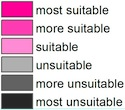
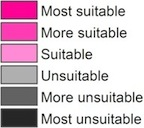
Added meta information in html header. Still need abstract and description.
Added tags to open IE in standard IE 8 mode rather than quirks.

Corrected footer's page contact information.

Added new legend jpgs from D. Galbraith after resizing to more appropriate sizes and changed the legend headers.

The outside study area layer toggle has been removed and the layer now shows up in the legend at initialization.

Added headers to the two lists of layer selection menus/buttons.

Added a vertical sizer between the sidebar and the tab panel. Removed the Vulnerability Assessment header and the map title.

git-svn-id: https://cida-svn.er.usgs.gov/repos/dev/usgs/glri-phragmites-map/trunk@23729 622dc1fb-2224-0410-ab72-dc85a3975e1a

diff --git a/src/main/webapp/js/ui.js b/src/main/webapp/js/ui.js
@@ -16,7 +16,7 @@ Ext.onReady(function() {
 		return dataArray;
 	};
 
-	var networkDataArray = createLayersDropDown('Map Off', GLRI.ui.map.networkLayers);
+	var networkDataArray = createLayersDropDown('No reduction', GLRI.ui.map.networkLayers);
 	
 	var createLayerCheckBoxes = function (layers){
 		// Return a list of checkbox objects that represent the layers
@@ -27,6 +27,7 @@ Ext.onReady(function() {
 				boxLabel: layers[i].name,
 				xtype: 'checkbox',
 				checked: layers[i].initialOn,
+				boxLabelAlign: 'before',
 				listeners: {
 					change: function(checkbox, newValue, oldValue) {
 						GLRI.ui.toggleLayerMap(checkbox.boxLabel, newValue);
@@ -50,7 +51,7 @@ Ext.onReady(function() {
 	
 	var otherCheckBoxes = createLayerCheckBoxes(GLRI.ui.map.habitatLayers.slice(0, 1));
 	var habitatCheckBoxes = createLayerCheckBoxes(GLRI.ui.map.habitatLayers.slice(1));
-	var habitatLegendDiv = createLegendDiv(GLRI.ui.map.habitatLayers);
+	var habitatAndStaticLegendDivs = createLegendDiv(GLRI.ui.map.habitatLayers.concat(GLRI.ui.map.staticLayers));
 	
 	Ext.create('Ext.container.Viewport', {
 		layout: 'border',
@@ -115,7 +116,6 @@ Ext.onReady(function() {
 					xtype: 'form',
 					id: 'phragmites-map-form',
 					bodyStyle: 'padding: 10px',
-					title: 'Vulnerability Assessment',
 					layout: 'column',
 					region: 'north',
 					split: true,
@@ -124,20 +124,21 @@ Ext.onReady(function() {
 					id: 'map-data-layers-selection',
 					items: [{
 						xtype: 'fieldset',
+						title: '<span style="font-size: 1.2em;"><b>Distance to <i>Phragmites</i><b></span>',
 						columnWidth: 0.50,
 						style: 'border-width: 0px',
 						items: [{
 							anchor: '80% 50%',
-							fieldLabel: 'Reduced Lake Level Corridors',
-							labelStyle: 'text-wrap: none;',
-							labelWidth: 170,
+							fieldLabel: 'Within reduced lake-level corridors',
+							labelWidth: 200,
+							margin: '0, 0, 0, 15',
 							id: 'phragmitesNetwork',
 							name: 'phragmitesNetwork', // Test to see if this fixes IE 7 display issues
 							xtype: 'combo',
 							triggerAction: 'all',
 							lazyRender:true,
 							forceSelection: true,
-							value: 'Map Off',
+							value: 'No reduction',
 							editable: false,
 							mode: 'local',
 							store: new Ext.data.ArrayStore({
@@ -156,17 +157,19 @@ Ext.onReady(function() {
 							displayField: 'network'
 						},
 						{
-							style: 'padding-top: 10px',
 							id: 'otherSuitability',
 							xtype: 'fieldcontainer',
+							margin: '0, 0, 0, 15',
 							items: otherCheckBoxes
 						}]
 					},{
 						xtype: 'fieldset',
 						columnWidth: 0.30,
+						title: '<span style="font-size: 1.2em;"><b><i>Phragmites</i> and Suitable Habitat</b></span>',
 						style: 'border-width: 0px',
 						items: [{
 							id: 'habitatSuitability',
+							margin: '0, 0, 0, 15',
 							xtype: 'fieldcontainer',
 							items: habitatCheckBoxes
 						}]
@@ -201,7 +204,6 @@ Ext.onReady(function() {
 				},{
 					contentEl: 'map-area',
 					id: 'ext-map-area',
-					title: 'Click and drag the map around.',
 					region: 'center',
 					layout: 'fit',
 					border: 0,
@@ -223,7 +225,8 @@ Ext.onReady(function() {
 			border: 0,
 			width: 300,
 			layout: 'border',
-			margin: 3,
+			margin: '3, 0, 0, 0',
+			split: true,
 			items: [
 			        {
 			        	xtype: 'panel',
@@ -234,7 +237,7 @@ Ext.onReady(function() {
 						autoScroll: true,
 						bodyStyle: "padding: 5px;",
 						region: 'north',
-						html: '<div class="legend-div" id="network-layer-div"></div>' + habitatLegendDiv
+						html: '<div class="legend-div" id="network-layer-div"></div>' + habitatAndStaticLegendDivs
 					},{
 			        	id: 'help-context-panel', 
 			        	title: GLRI.ui.helpContext.map.title,
@@ -259,5 +262,10 @@ Ext.onReady(function() {
 			setHelpContext(this);
 		},
 		config);
+	}
+	
+	// Add staticLayers legends to legend div.
+	for (var i = 0; i < GLRI.ui.map.staticLayers.length; i++) {
+		GLRI.ui.toggleLegend(GLRI.ui.map.staticLayers[i].name, GLRI.ui.map.staticLayers, true);
 	}
 });

diff --git a/src/main/webapp/js/config.js b/src/main/webapp/js/config.js
@@ -61,13 +61,13 @@ GLRI.ui.map.baseLayers = [
 */
 GLRI.ui.map.habitatLayers = [
 	 {
-  		name: "Streams, wetlands and waterbodies",
+  		name: "Within streams, wetlands, and waterbodies",
   		url: GLRI.ui.map.baseUrl,
    	 	type: OpenLayers.Layer.WMS,
   	 	layers: '0',
   	 	legend: { 
   	 		name: 'Streams, wetlands, and waterbodies',
-  	 		imgHtml: GLRI.ui.getLegendHTML(GLRI.ui.map.baseUrl, '0')
+  	 		imgHtml: '<img src=images/legends/corridor_networks.jpg />'
   	 	},
   	 	legendDivId: 'habitat-layer-0',
   	 	drawingOrder: 2,
@@ -89,19 +89,21 @@ GLRI.ui.map.habitatLayers = [
   	 	opacity: 1.0
       },
   	 {
-  		name: "<i>Phragmites</i> habitat",
+  		name: "<i>Phragmites</i> habitat suitability",
   		url: GLRI.ui.map.baseUrl,
   	 	type: OpenLayers.Layer.WMS,
   	 	layers: '1',
   	 	legend: {
-  	 		name: '<i>Phragmites</i> habitat',
+  	 		name: '<i>Phragmites</i> habitat suitability',
   	 		imgHtml: '<img src=images/legends/phragmites_habitat.jpg />'
   	 	},
   	 	legendDivId: 'habitat-layer-1',
   	 	drawingOrder: 1,
   	 	initialOn: false,
   	 	opacity: 1.0
-  	 },
+  	 }
+   ];
+GLRI.ui.map.staticLayers = [
   	 {
   		 name: "Outside study area",
   		 url: GLRI.ui.map.baseUrl,
@@ -116,7 +118,6 @@ GLRI.ui.map.habitatLayers = [
    	 	 initialOn: true,
    	 	 opacity: 0.75
   	 }
-
    ];
 
 GLRI.ui.map.networkLayers = [{ 
@@ -127,7 +128,7 @@ GLRI.ui.map.networkLayers = [{
   	 	legend: [
   	 	         {
   	 	        	 name: 'Contour-based 1 m reduction',
-  	 	        	 imgHtml: GLRI.ui.getLegendHTML(GLRI.ui.map.baseUrl, '4')
+  	 	        	 imgHtml: '<img src=images/legends/corridor_networks.jpg />'
   	 	         }
   	 	],
   	 	drawingOrder: 3,
@@ -142,7 +143,7 @@ GLRI.ui.map.networkLayers = [{
   	 	legend:[
   	 	        {
   	 	        	name: 'Lidar-based 1 m reduction',
-  	 	        	imgHtml: GLRI.ui.getLegendHTML(GLRI.ui.map.baseUrl, '11')
+  	 	        	imgHtml: '<img src=images/legends/corridor_networks.jpg />'
   	 	        },
   	 	        {
   	 	        	name: 'Lidar unavailable',
@@ -161,7 +162,7 @@ GLRI.ui.map.networkLayers = [{
   	 	legend:[
   	 	        {
   	 	        	name: 'Lidar-based 50 cm reduction',
-  	 	        	imgHtml: GLRI.ui.getLegendHTML(GLRI.ui.map.baseUrl, '13')
+  	 	        	imgHtml: '<img src=images/legends/corridor_networks.jpg />'
   	 	        },
   	 	        {
   	 	        	name: 'Lidar unavailable',

diff --git a/src/main/webapp/js/map.js b/src/main/webapp/js/map.js
@@ -38,8 +38,8 @@ GLRI.ui.initMap = function() {
 	        );
 		GLRI.ui.map.mainMap.addLayer(baseLayer);
 	}
-	// First sort habitat and network layers by drawingOrder
-	var layersToAdd = GLRI.ui.map.habitatLayers.concat(GLRI.ui.map.networkLayers);
+	// First sort static, habitat and network layers by drawingOrder
+	var layersToAdd = GLRI.ui.map.habitatLayers.concat(GLRI.ui.map.networkLayers, GLRI.ui.map.staticLayers);
     layersToAdd.sort(function(a,b){
 		if (a.drawingOrder < b.drawingOrder) {
 			return -1;
